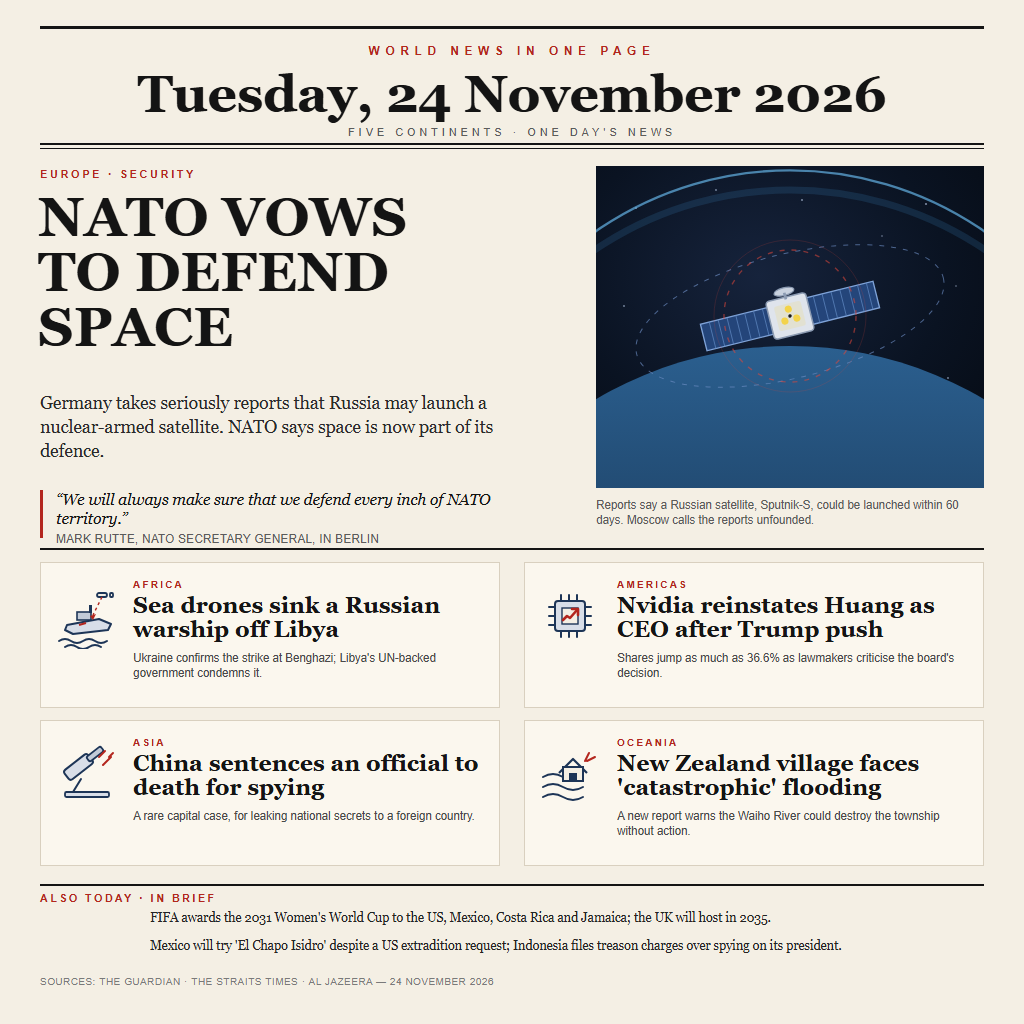
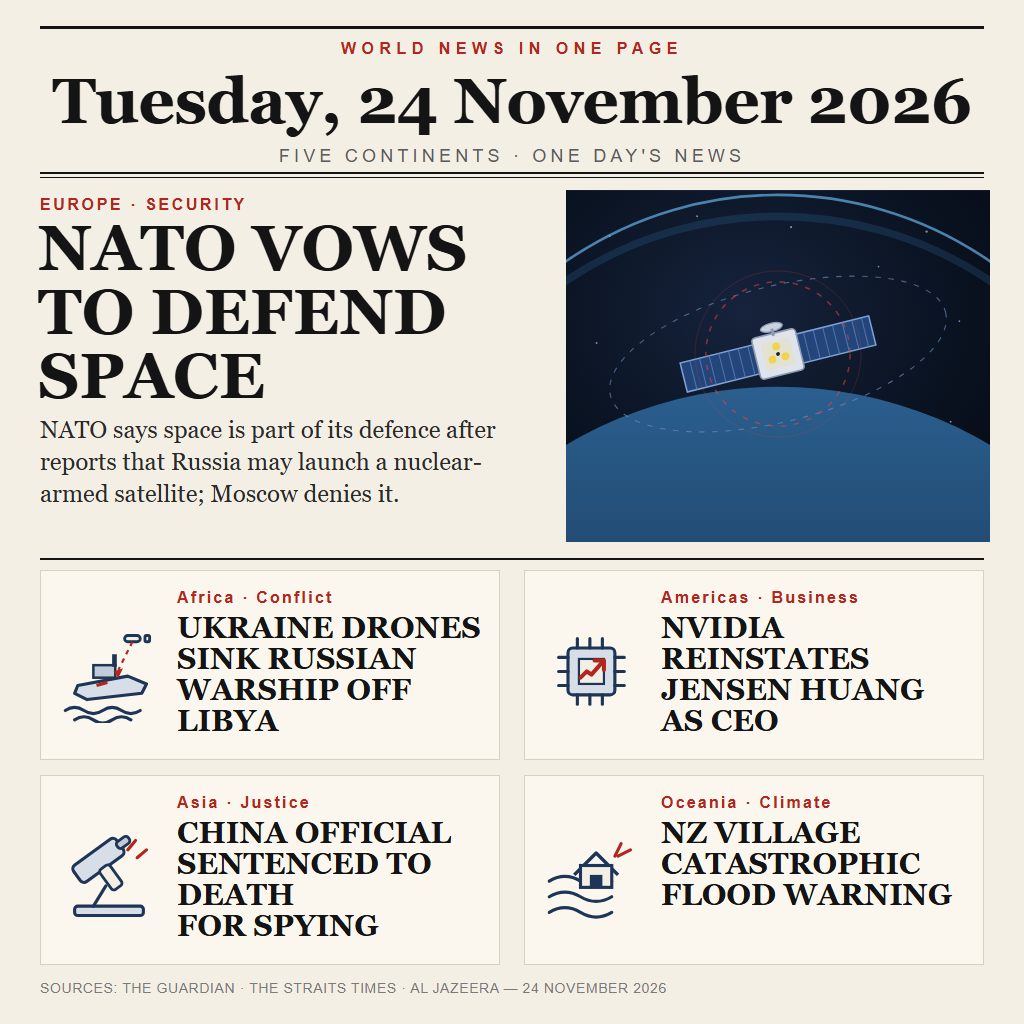
Make the 24 November front page legible at 300px

Changed region(s): [[0.0312, 0.0312, 0.9688, 0.9688]]

diff --git a/README.md b/README.md
@@ -4,7 +4,7 @@
 [![rank](https://make.fun/badge/news-image-20261124/obvirm/world-news-one-page/rank.svg)](https://make.fun/bounty/news-image-20261124/leaderboard?utm_source=github&utm_medium=readme&utm_campaign=news-image-20261124)
 [![reward](https://make.fun/badge/news-image-20261124/obvirm/world-news-one-page/reward.svg)](https://make.fun/bounty/news-image-20261124?utm_source=github&utm_medium=readme&utm_campaign=news-image-20261124)
 
-A one-page newspaper of the world news of Tuesday, 24 November 2026: NATO's pledge to defend space after reports of a Russian nuclear-armed satellite, Ukraine's sea-drone strike on a Russian warship off Libya, Nvidia's reinstatement of Jensen Huang as CEO, China's death sentence for an official who spied, New Zealand's flood risk at Franz Josef, and more.
+A one-page newspaper of the world news of Tuesday, 24 November 2026: NATO's pledge to defend space after reports of a Russian nuclear-armed satellite, Ukraine's sea-drone strike on a Russian warship off Libya, Nvidia's reinstatement of Jensen Huang as CEO, China's death sentence for an official who spied, and New Zealand's catastrophic flood warning.
 
 The image is drawn by `tools/build-poster.mjs` in HTML and SVG with no external assets, then rendered once to `entry.png` at 1024×1024. `main.ts` copies that image to the grader's output directory.
 
